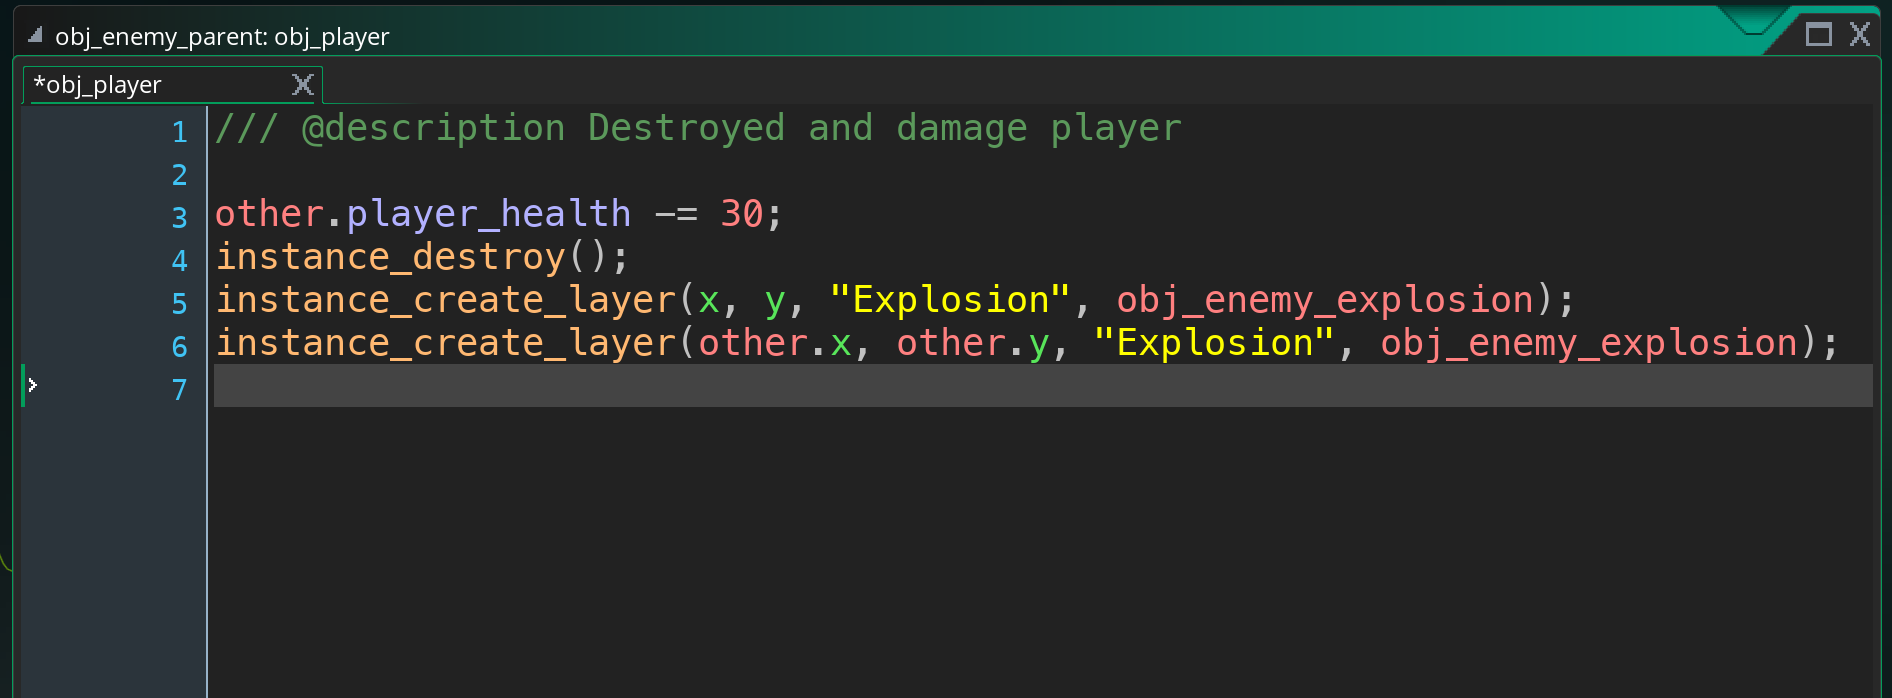
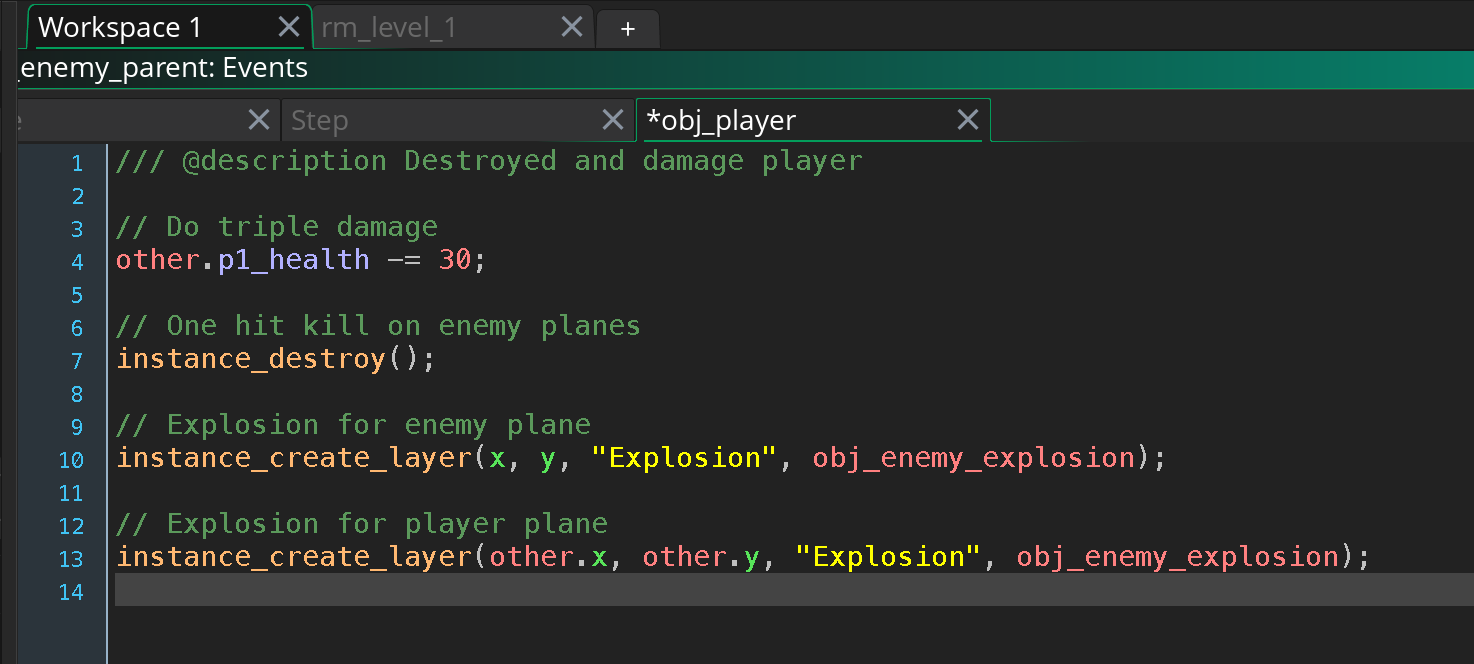
Update top down shooter

Changed region(s): [[0.0, 0.0, 1.0, 1.0], [0.5617, 0.6627, 0.7802, 0.7229], [0.4057, 0.6627, 0.5305, 0.7229]]

diff --git a/player-damage/README.md b/player-damage/README.md
@@ -87,7 +87,9 @@ Add two explosions and take away triple health damage to bullets inside the **ob
 
 ##### `Step 10.`\|`SPCRK`| :large_blue_diamond:
 
-![alt_text](images/.png)
+Now *press* the <kbd>Play</kbd> button in the top menu bar to launch the game. Now run into an enemy to see if it works.
+
+![Play game and run into enemy](images/PlaneOnPlaneDeath.gif)
 
 <img src="https://via.placeholder.com/500x2/45D7CA/45D7CA" alt="drawing" height="2px" alt = ""/>
 
